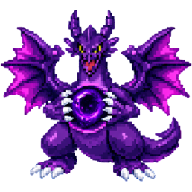
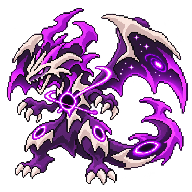
Add Oblivix corruption forms
Adds Oblivix Void and Galaxy forms, item graphics, and updated form mappings. Also adds the renamed Tyranitar Void Core graphic and updates project data files.

diff --git a/Pokemon Galatic Void/Plugins/PokemonG&V/001_Corruption_Core.rb b/Pokemon Galatic Void/Plugins/PokemonG&V/001_Corruption_Core.rb
@@ -12,8 +12,8 @@ module GalacticVoidCorruption
 
   # ITEM => [SPECIES, MODE, NORMAL FORM, CORRUPTION FORM]
   STONES = {
-    :OBLIVIXVOIDCORE   => [:OBLIVIX,   VOID,   0, VOID_FORM],
-    :OBLIVIXSTARCORE   => [:OBLIVIX,   GALAXY, 0, GALAXY_FORM],
+    :OBLIVIXVOIDCORE   => [:OBLIVIX,   VOID,   0, 1],
+    :OBLIVIXSTARCORE   => [:OBLIVIX,   GALAXY, 0, 2],
 
     :ERUPTILEVOIDCORE  => [:ERUPTILE,  VOID,   0, VOID_FORM],
     :ERUPTILESTARCORE  => [:ERUPTILE,  GALAXY, 0, GALAXY_FORM],
